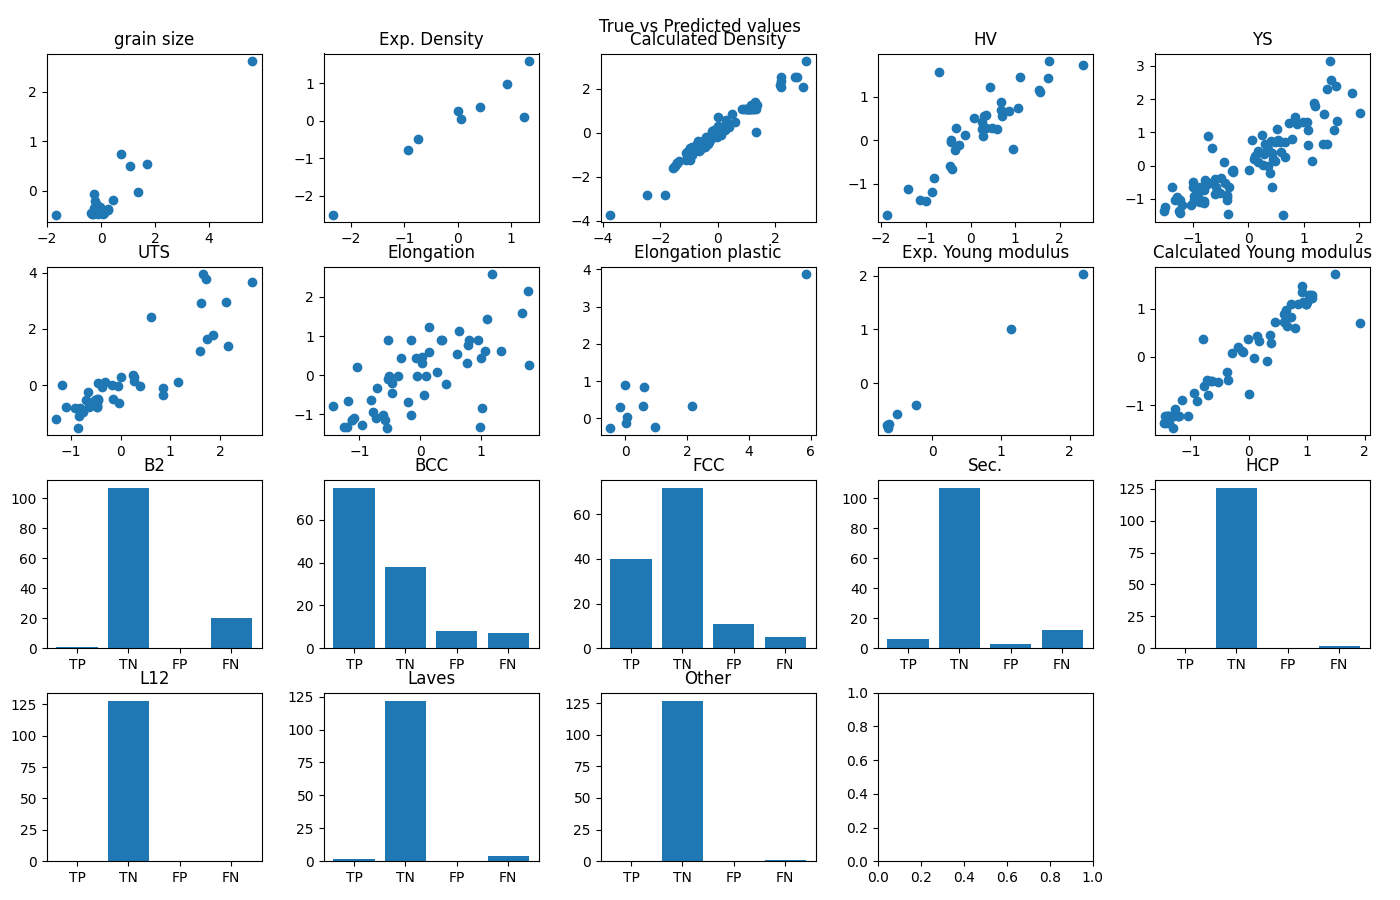
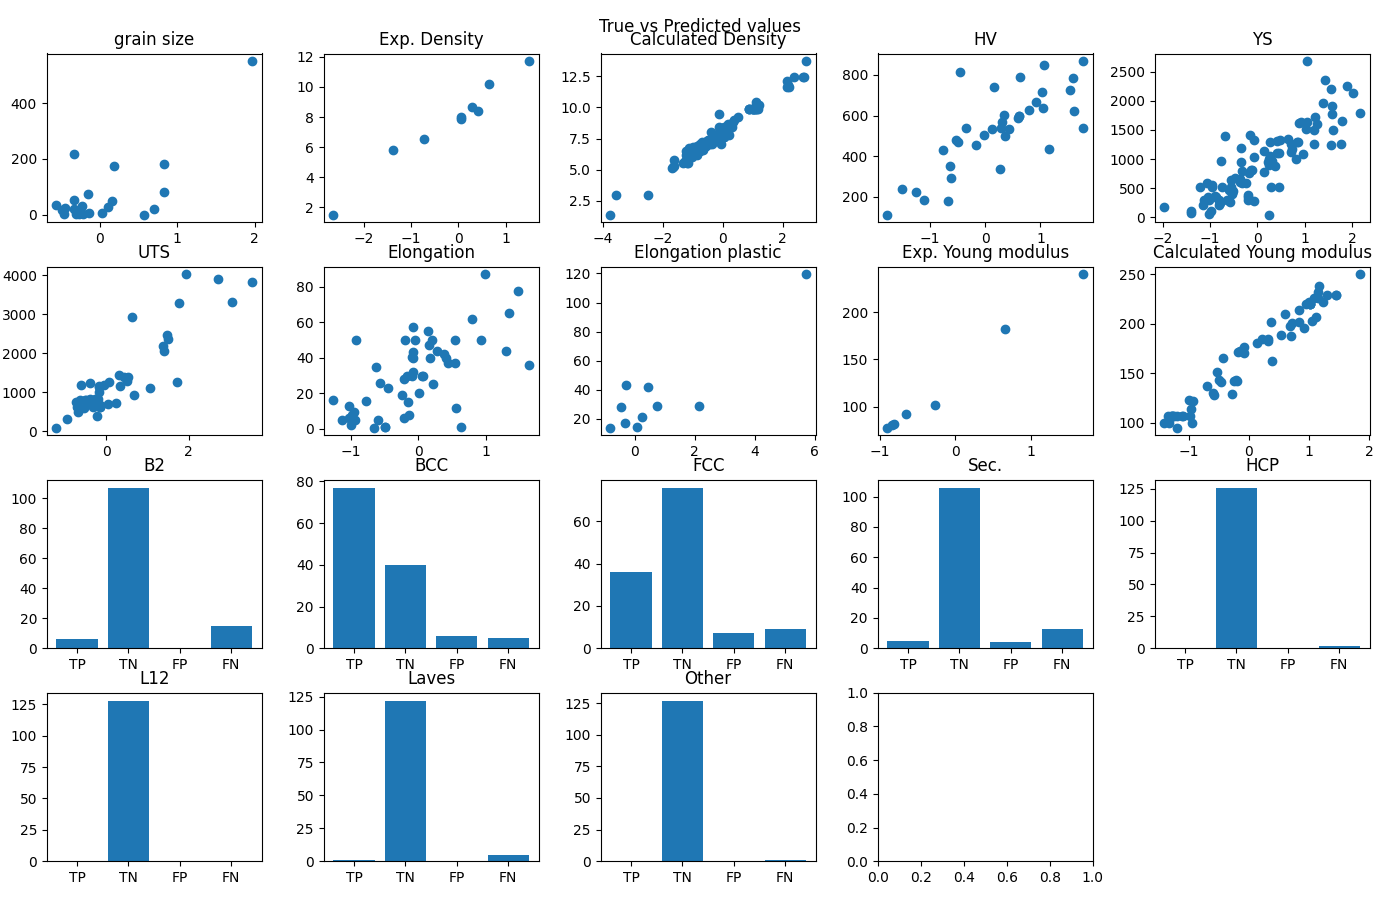
Added Postprocessing to ANN outputs

diff --git a/src/ANN.py b/src/ANN.py
@@ -87,6 +87,8 @@ X = np.hstack((X, X_mask.mask))
 X[np.isnan(X)] = 0
 
 # Center and scale continuous values, stack them beside the categorical ones
+Y_mean = np.nanmean(Y.iloc[:,:10].to_numpy(), axis =0)
+Y_std = np.nanstd(Y.iloc[:,:10].to_numpy(), axis =0)
 Y_reg = tools.preprocess(Y.iloc[:,:10].to_numpy())
 Y_cat = Y.iloc[:,10:].to_numpy()
 Y = np.hstack((Y_reg,Y_cat))
@@ -166,7 +168,7 @@ for nodes in [2,4,8,16,32,64,512]:
         for i in range(10):
             x,y = int(i/5),int(i%5)
             pred = predictions[:, i]
-            true = Y_test[:, i]
+            true = Y_test[:, i] * Y_std[i] + Y_mean[i]
             axs[x,y].plot(pred[~np.isnan(true)], true[~np.isnan(true)], 'o')
             axs[x,y].set_title(y_labels[i])
 
